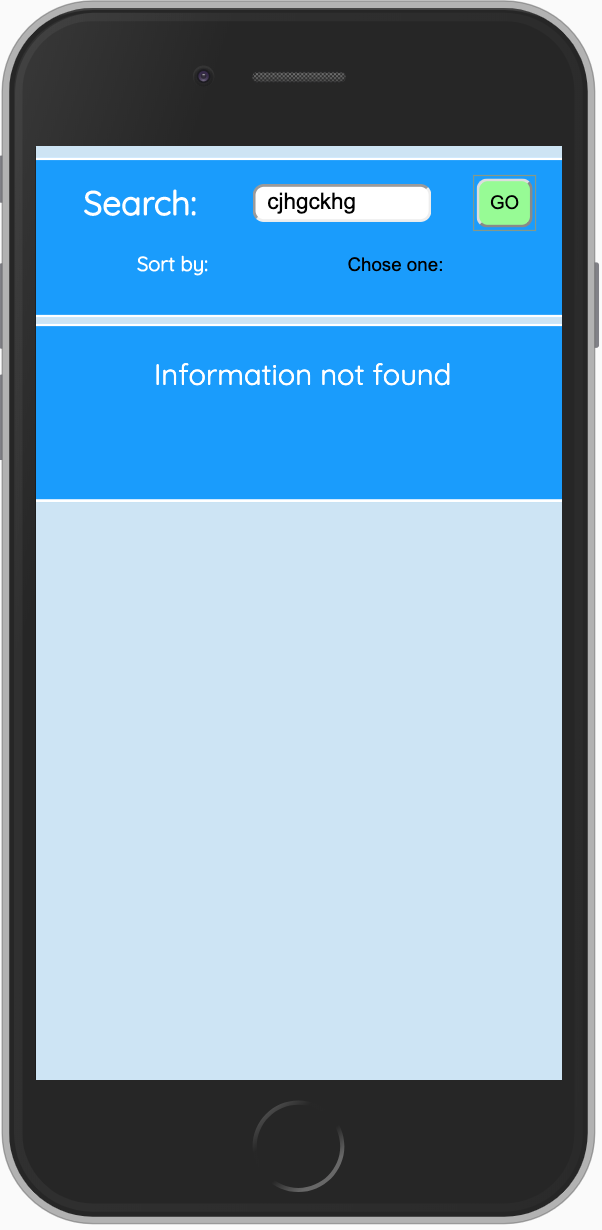
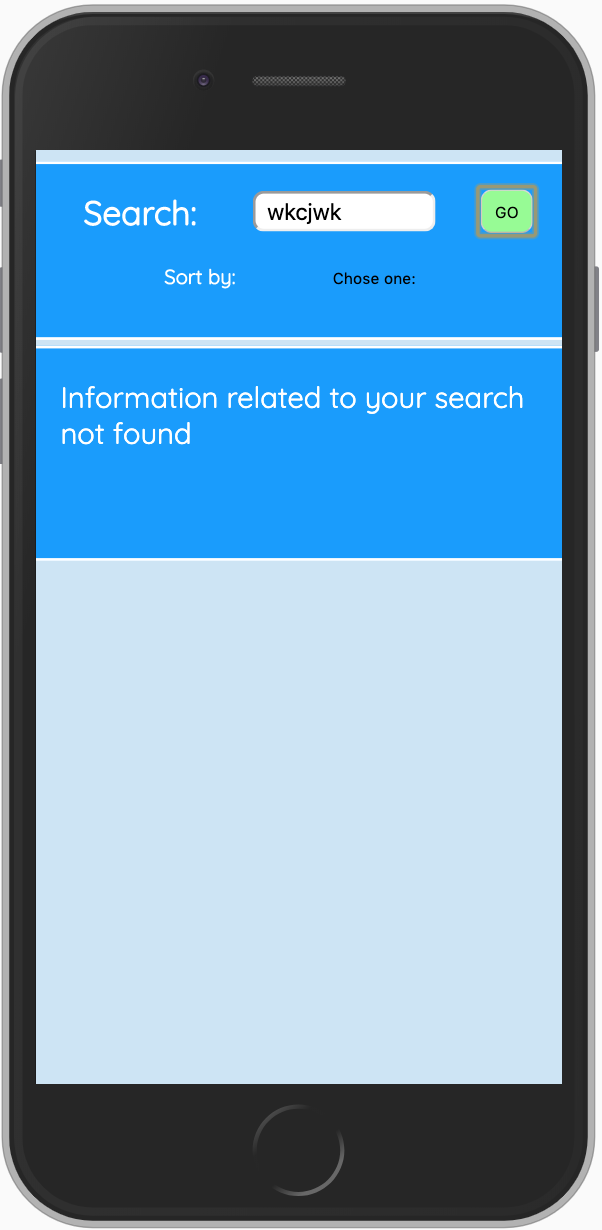
some styles modified and some info added to the README file

diff --git a/styles/index.css b/styles/index.css
@@ -67,7 +67,7 @@
 .Sortby {
   display: flex;
   flex-direction: row;
-  justify-content: space-evenly;
+  justify-content: center;
   align-items: center;
 }
 .Sortby-subtitle {
@@ -104,7 +104,7 @@
 }
 .Results-feedback {
   height: 100%;
-  width: 100%;
+  width: 90%;
   display: flex;
   justify-content: center;
   font-size: 130%;
@@ -137,7 +137,6 @@
 }
 
 .Item {
-  border: 1px solid black;
   border-radius: 2rem;
   padding: 0.5rem;
   background-color: white;

diff --git a/styles/results.sass b/styles/results.sass
@@ -12,7 +12,7 @@
 
     &-feedback
         height: 100%
-        width: 100%
+        width: 90%
         display: flex
         justify-content: center
         font-size: 130%
@@ -34,7 +34,6 @@
         justify-content: space-evenly
 
 .Item
-    border: 1px solid black
     border-radius: 2rem
     padding: .5rem
     background-color: $itemBackgroundColor

diff --git a/styles/search.sass b/styles/search.sass
@@ -57,7 +57,7 @@
 .Sortby
     display: flex
     flex-direction: row
-    justify-content: space-evenly
+    justify-content: center
     align-items: center
     &-subtitle
         display: flex

diff --git a/README.md b/README.md
@@ -14,7 +14,7 @@
 
 On this application users will be able to search series & movies and see them listed with many information about them.
 
-Also they will be able to see more information and media if they press in any of the results because they will be redirected to another webpage.
+They will be able to see more information and media if they press in any of the results because they will be redirected to another webpage.
 
 Using the select var available, users could also sort the results obtained by the published year and the rating of the movies/series (always from higher number to lower).
 
@@ -22,7 +22,7 @@ Users will also see different feedback messages if the information what are they
 
 ## Use cases
 
-User can search, sortby.
+User can do two actions: search and sortby.
 
 <img src="images/Use-cases.png" height= "70" width="250">
 
@@ -37,7 +37,7 @@ User can search movies/series from the API (https://www.omdbapi.com/).
 
 #### Results Screen
 
-If the searched information does exist: user will see the results on the screen.
+If the searched information does exist, user will see the results on the screen.
 
 <div>
 <img src="images/Results-screen1.png" height= "250" width="130">
@@ -54,18 +54,18 @@ When there are some results, user can sort by published year or rating.
 
 #### Input empty Screen
 
-When user does not write anything on the search var and submit, it will see this feedback error during 3 seconds.
+When user does not write anything on the search var and submit, the following feedback error will appear during 3 seconds.
 
 <img src="images/Input-empty-screen.png" height= "250" width="130">
 
 ####  Information not found Screen
 
-When the information searched by the user does not find any result on the API, it will see this feedback error during 3 seconds.
+When the information searched by the user does not find any result on the API, the following feedback error will appear during 3 seconds.
 
 <img src="images/Info-not-found-screen.png" height= "250" width="130">
 
 #### Desktop view Screen
 
-This is how it looks like in desktop mode. 
+This is the view on the desktop mode. 
 
 <img src="images/Desktop-view-screen.png" height= "250" width="430">
